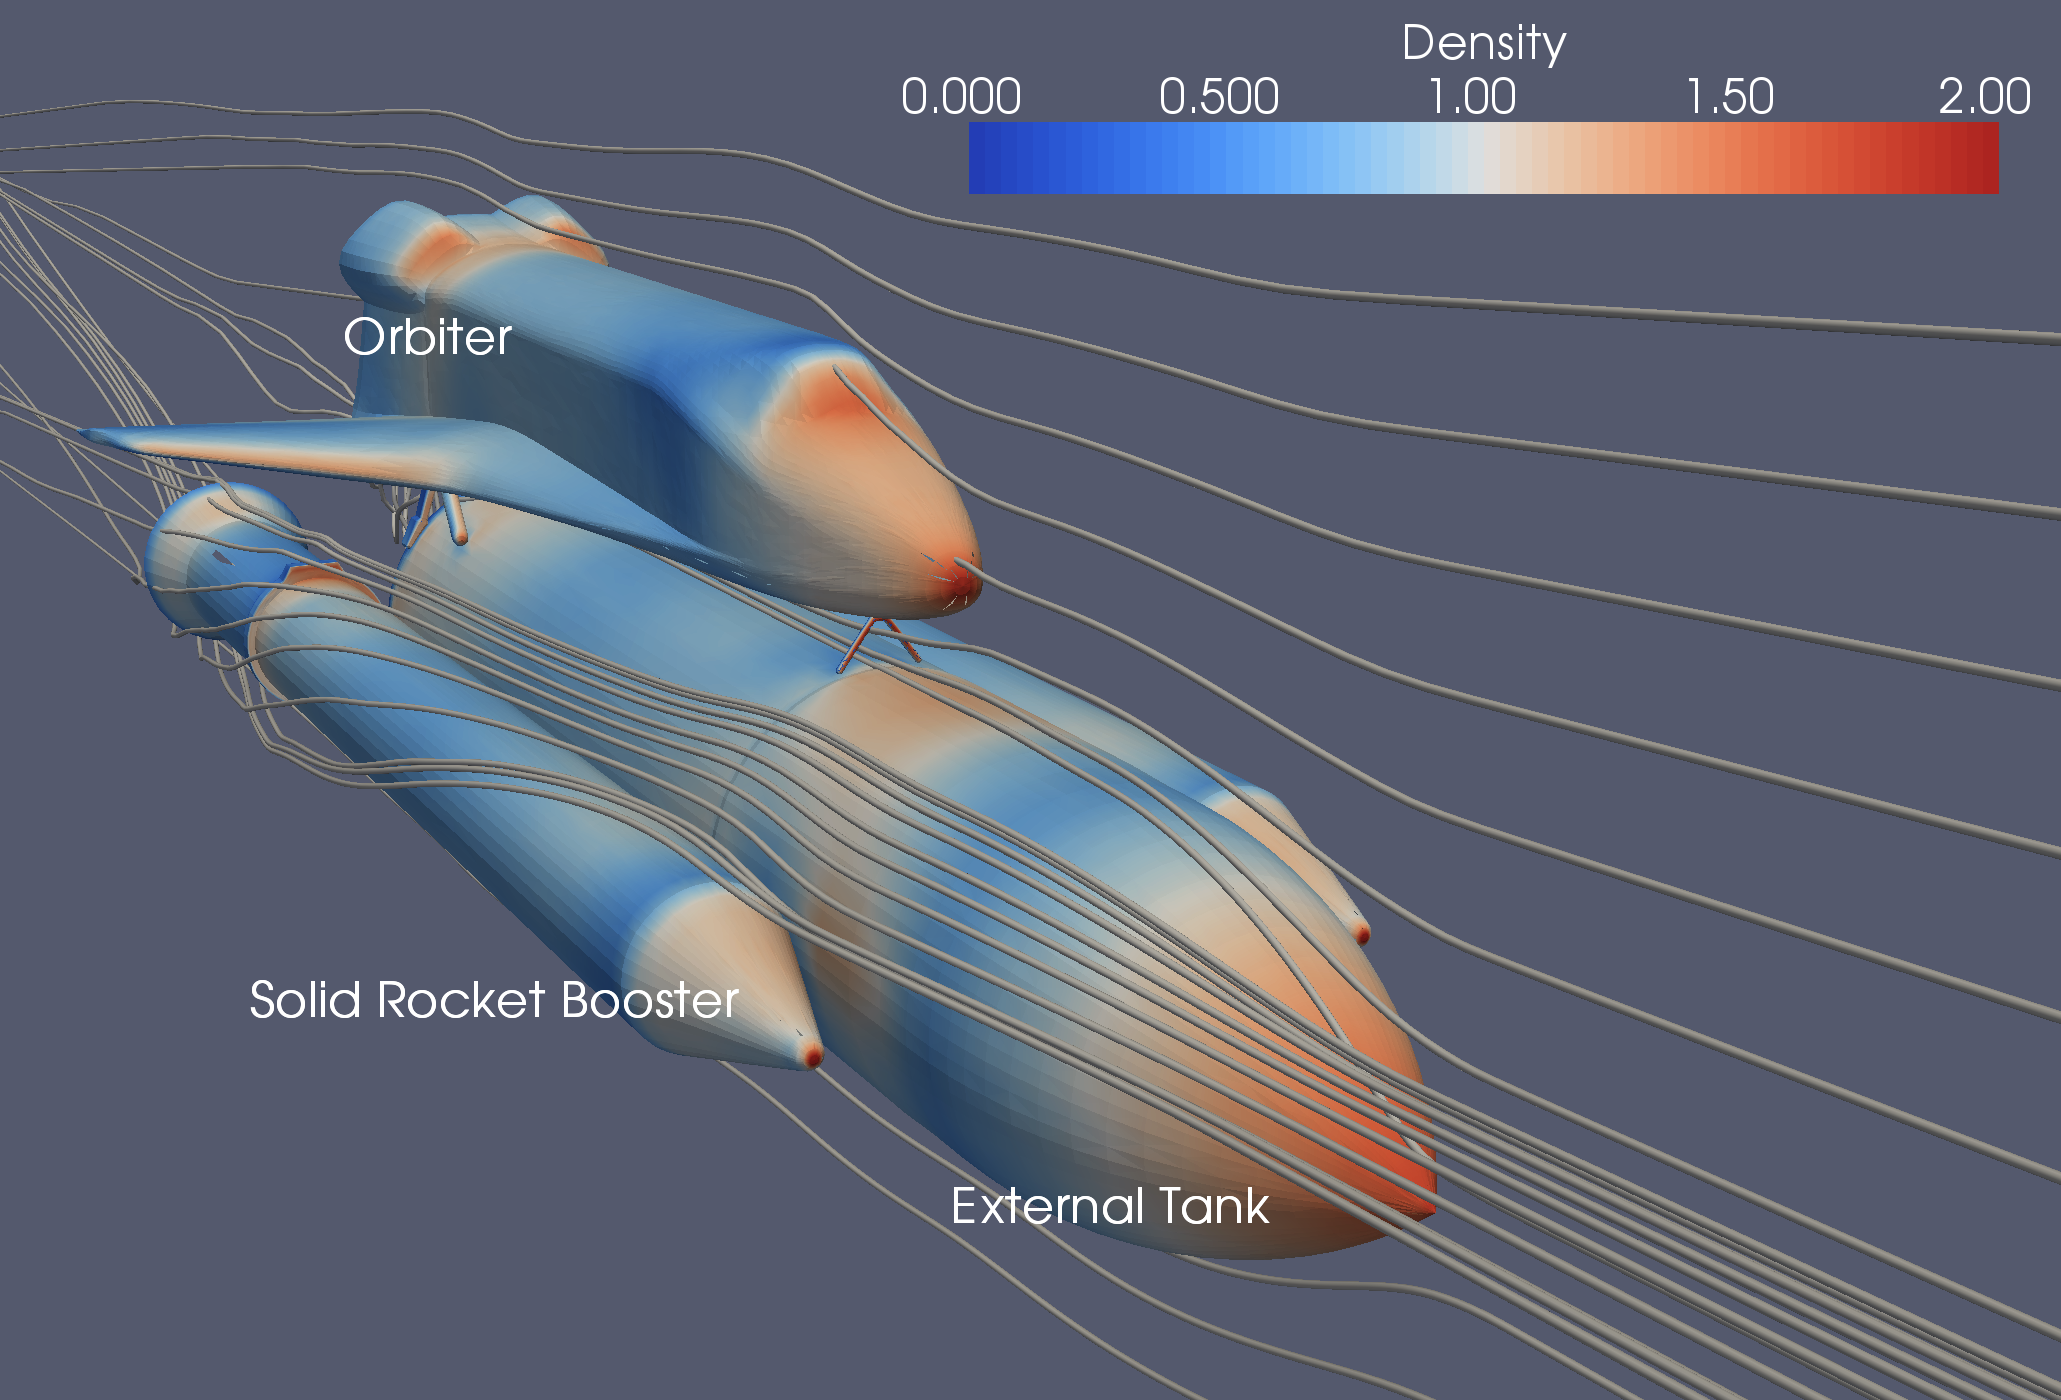
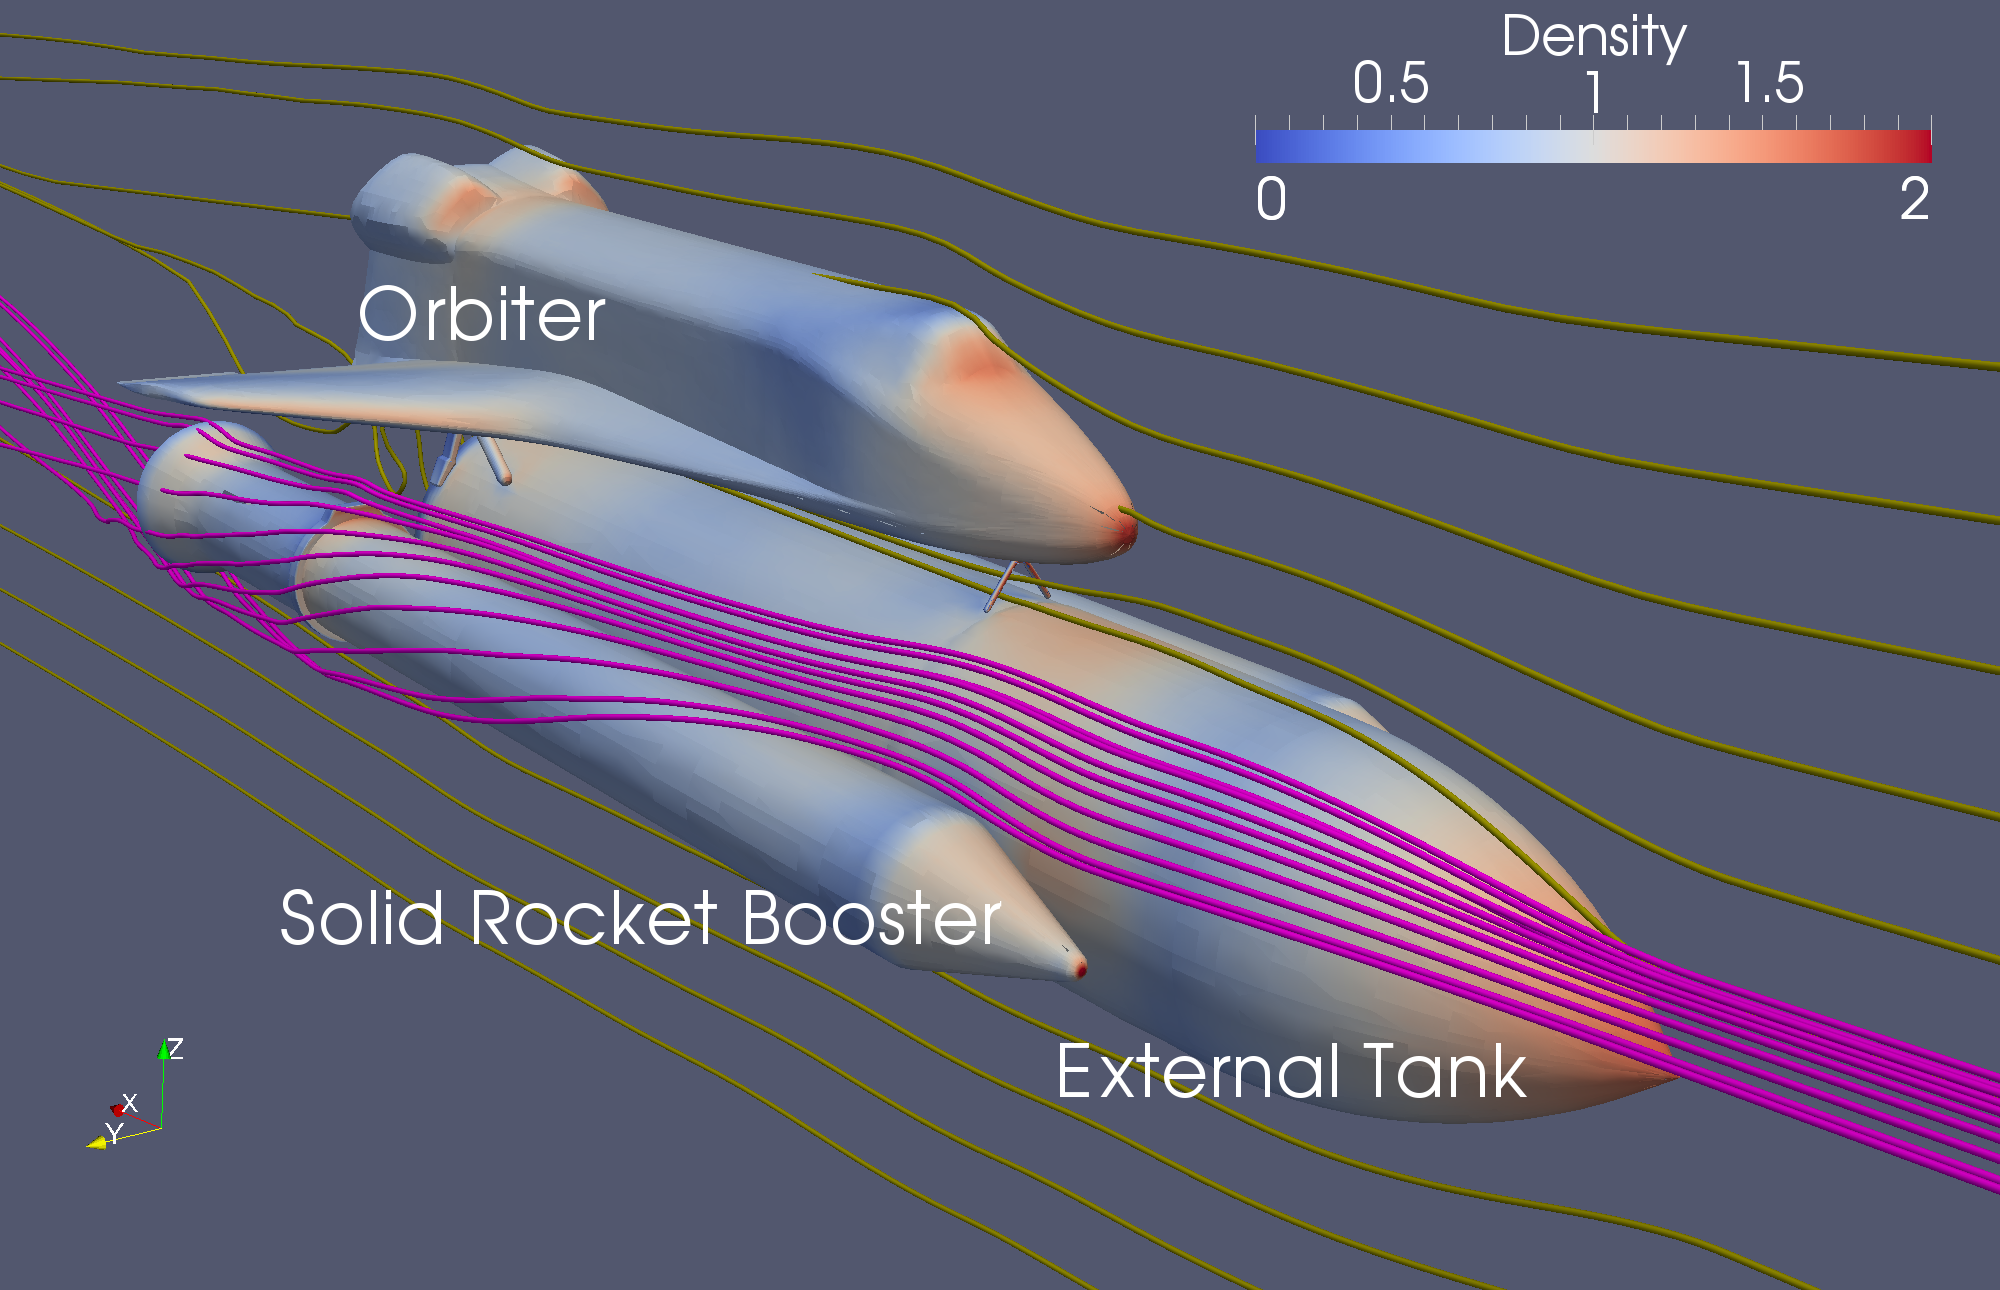
Updated colors for shuttle example.
git-svn-id: svn+ssh://vizrd.srn.sandia.gov/svnroot/kmorel/papers/ColorMaps/trunk@1160 61430140-fc74-48ae-be37-35807f1eb91a

diff --git a/ColorMaps.tex b/ColorMaps.tex
@@ -1218,7 +1218,7 @@ components to be added, as shown in Figures
   \centering
   \includegraphics[width=\linewidth]{images/ShuttleExample}
   \caption{Shuttle body with color map applied coupled with annotation and
-    streamlines. \sticky{Update with new colors.}}
+    streamlines.}
   \label{fig:ColorMapOnShuttle}
 \end{figure}
 
